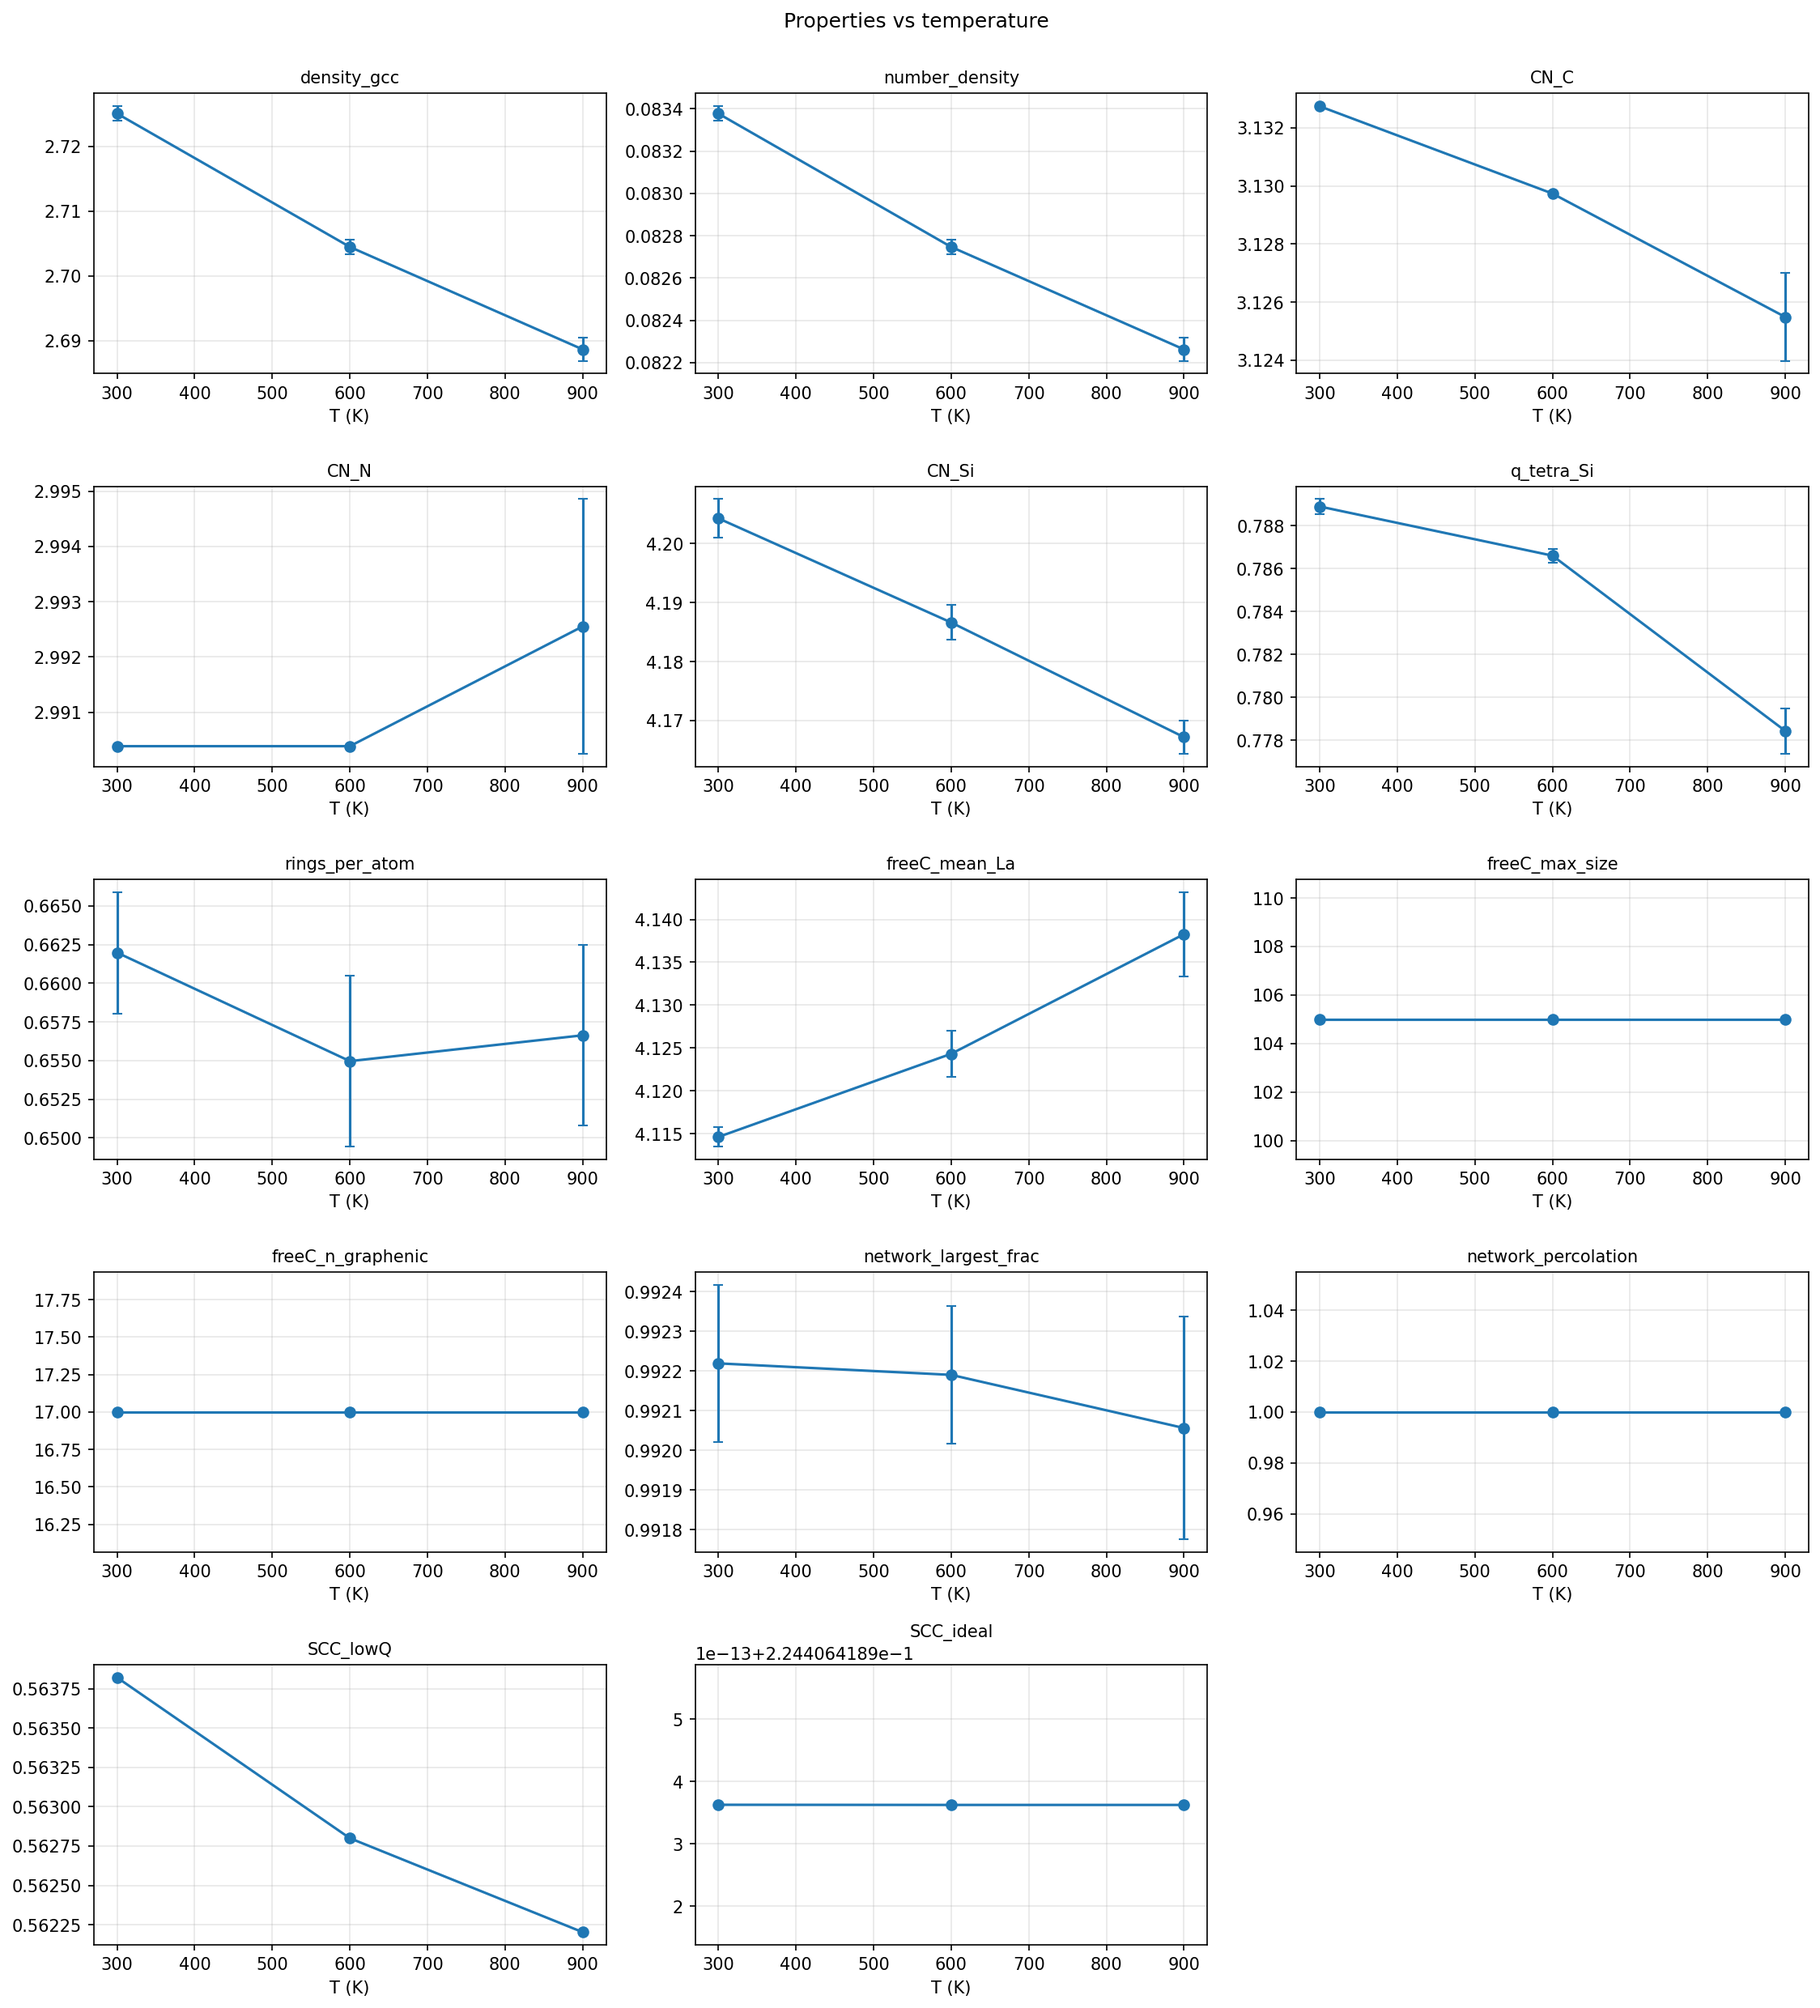
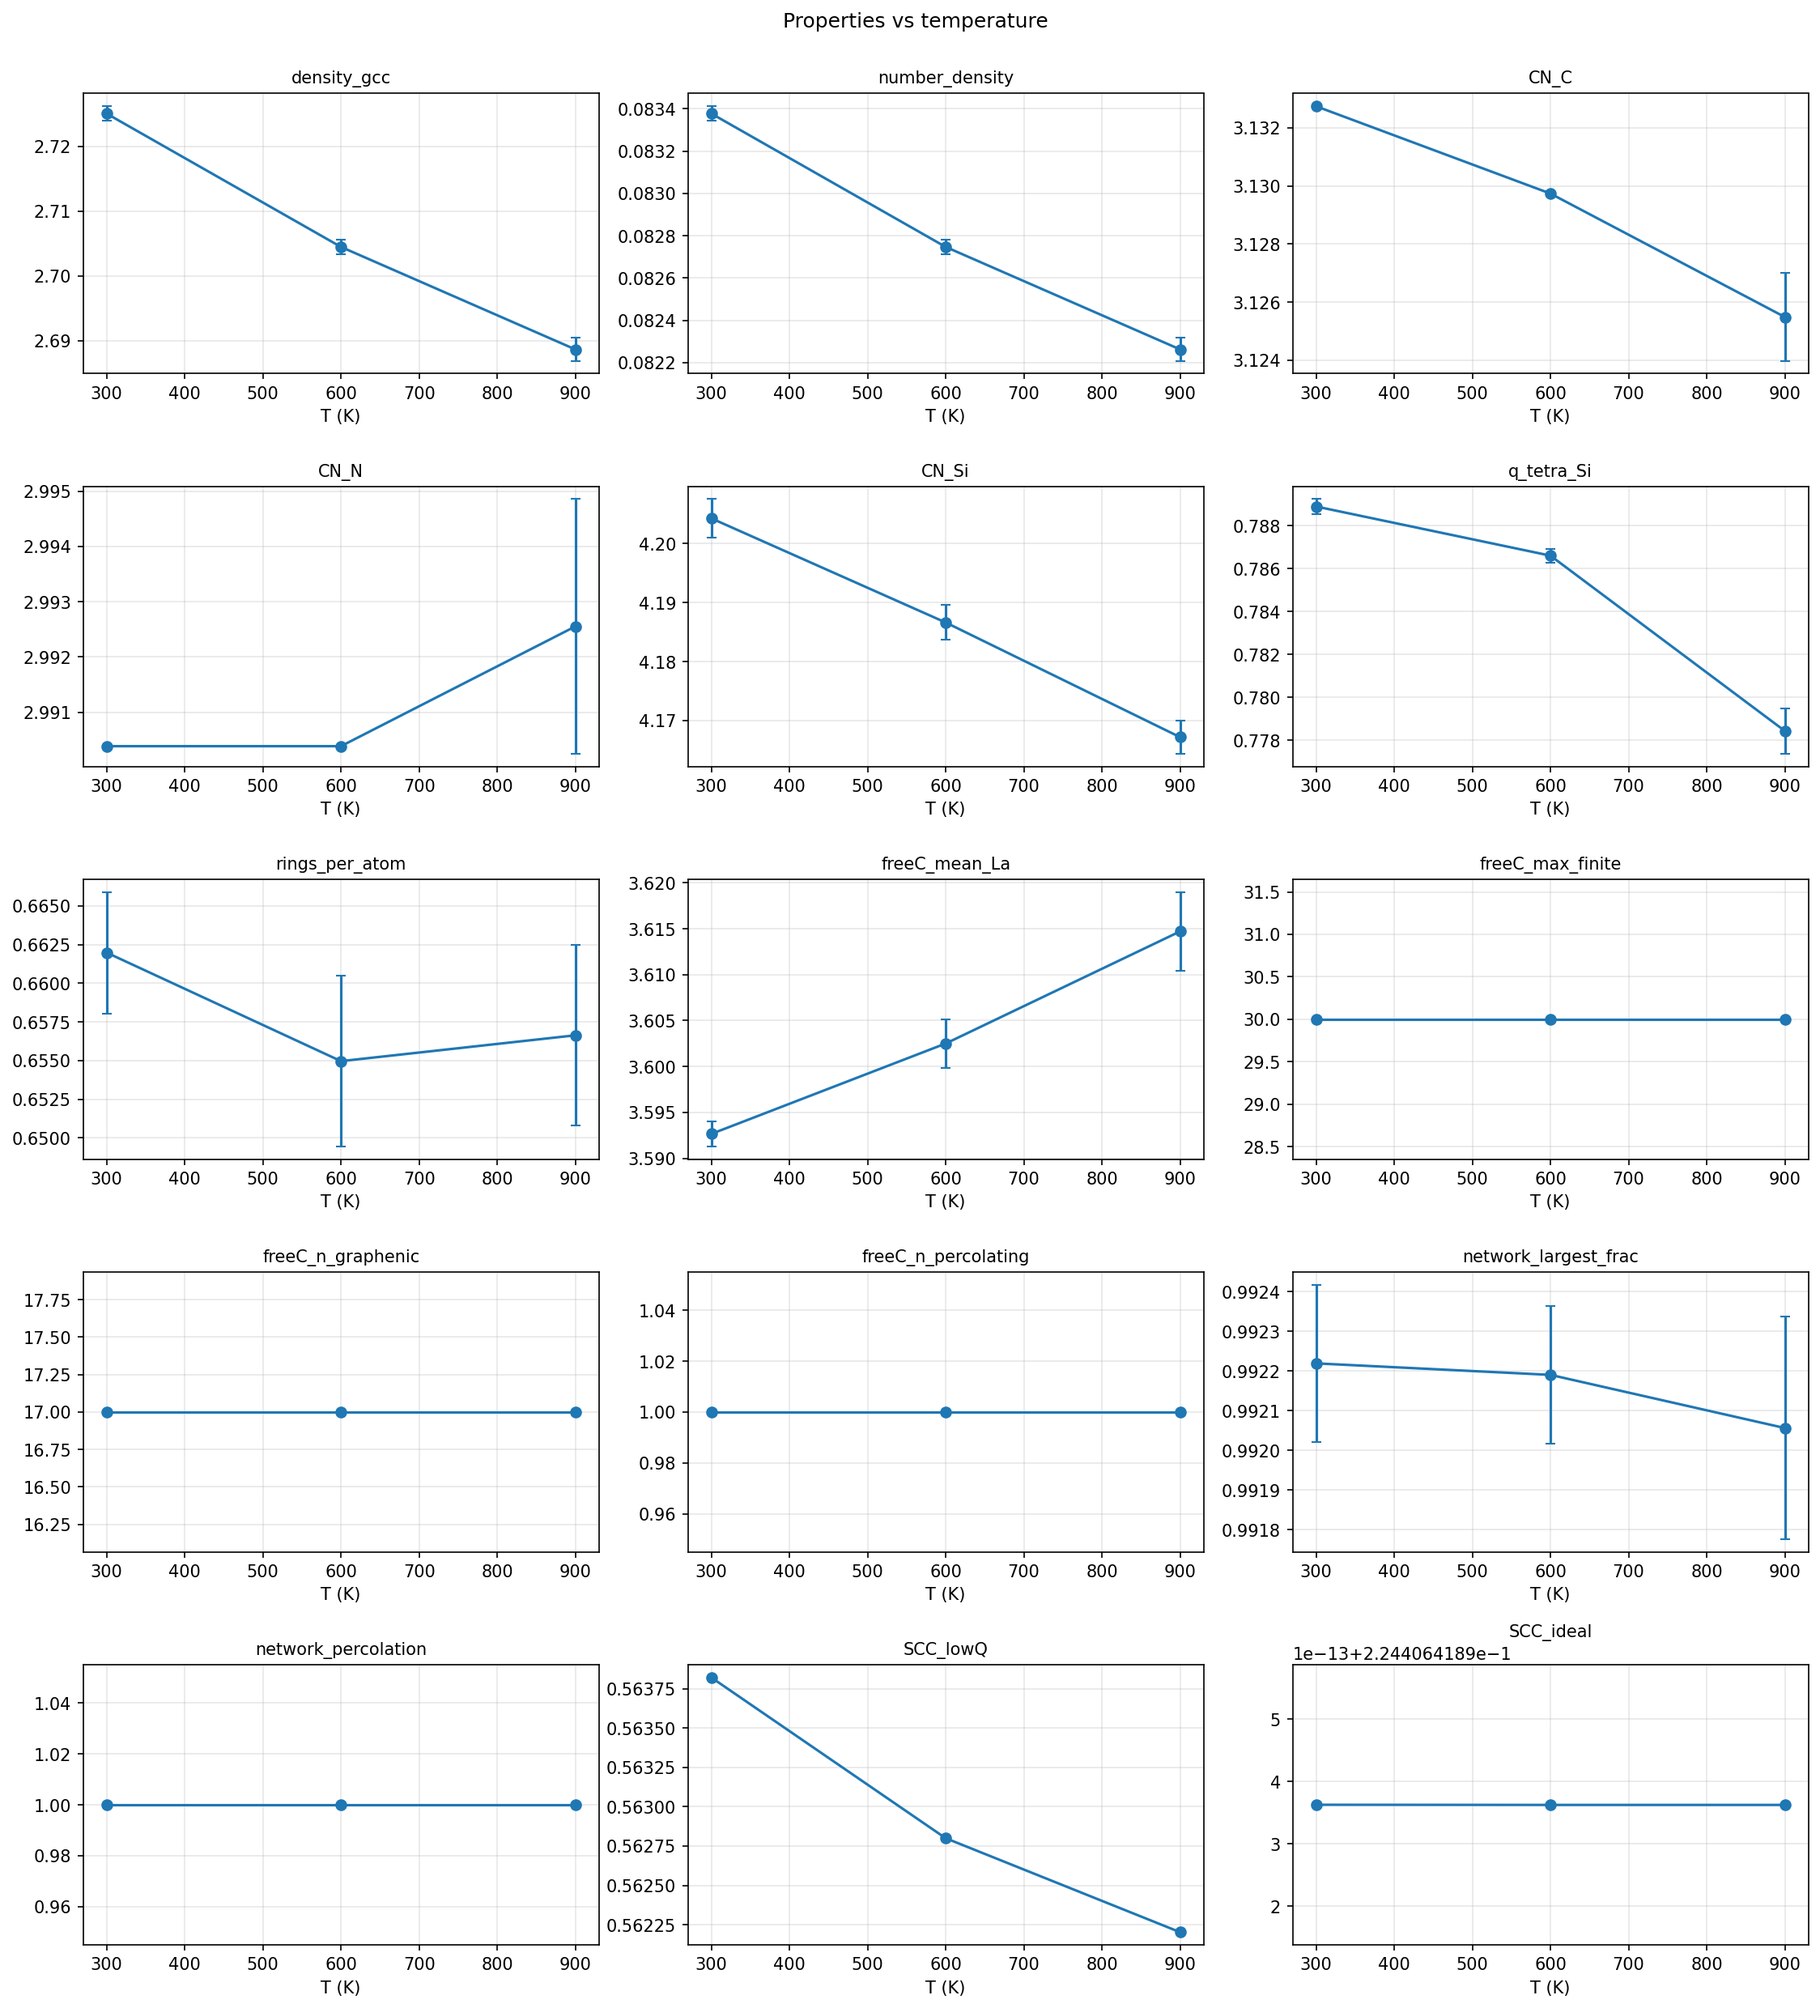
Fix small-box MRO artifact: exclude PBC-percolating clusters from size stats
Diagnostics (scripts/mro_diagnostics.py) on the 997-atom / 22.9 A cell show
the only real size limitation is in free-cluster geometry: the 105-atom
free-C cluster SPANS the box (extent/L=0.87), so under PBC it connects to its
own image and its R_g/L_a are ill-defined — yet it was reported as size=105,
L_a=12.4 and was inflating mean_La.

clusters.py: _cluster_records now flags percolating components (extent>=0.85 L)
and NaNs their geometry; free_clusters excludes them from mean_La, reports
max_finite_size (largest bounded cluster) alongside raw max_size, and adds
n_percolating. analyze.py prints an explicit warning; sweep.py exposes the new
columns. BT S_CC is now sampled at max(0.5, 2pi/L) so we never claim a Q below
the box-accessible minimum.

Other checks pass: g(r) r_max=8 < L/2=11.4 (OK); rings max_size=9 < 13-atom
box-spanning length (OK). Results regenerated; smoke test green.

diff --git a/scripts/mro_diagnostics.py b/scripts/mro_diagnostics.py
@@ -1,0 +1,76 @@
+#!/usr/bin/env python3
+"""Size-sanity diagnostics for MRO analyses on a small cell.
+
+Flags box-size limitations that produce silent artifacts (no exception):
+  * g(r)/structure-factor: r_max must be <= L/2 (minimum-image)
+  * Bhatia-Thornton: smallest accessible Q = 2pi/L  -> 'Q->0' is only an estimate
+  * rings: a ring that needs >~ L/bond atoms to wrap is impossible to detect;
+    conversely max_size must stay below the box-spanning length
+  * clusters: a component that spans the box (percolates) has an ILL-DEFINED
+    R_g / L_a (PBC self-connection) — must be excluded from size metrics
+"""
+from __future__ import annotations
+import sys, warnings
+from pathlib import Path
+import numpy as np
+
+sys.path.insert(0, str(Path(__file__).resolve().parent.parent))
+warnings.filterwarnings("ignore")
+
+from amorph import core, presets
+from amorph.mro._common import build_graph, unwrap_component, gyration
+import networkx as nx
+
+path = sys.argv[1] if len(sys.argv) > 1 else "data/dump_T0300.lammpstrj"
+CM = core.CutoffMatrix(presets.SICN_CUTOFFS, default=0.0)
+traj = core.load(path, type_map=presets.SICN_TYPE_MAP, frames="all")
+fr = traj[-1]                       # last (well-equilibrated) frame
+L = fr.L
+sp = core.species_of([fr])
+print("=" * 70)
+print(f"MRO size diagnostics — {Path(path).name}  (last frame)")
+print("=" * 70)
+print(f"atoms={fr.n_atoms}  box L = {L[0]:.2f} x {L[1]:.2f} x {L[2]:.2f} Å  "
+      f"L/2 = {L.min()/2:.2f} Å")
+
+# --- g(r) / S(Q) reach -------------------------------------------------------
+print("\n[g(r)/S(Q)] minimum-image reach")
+print(f"  max reliable r_max = L/2 = {L.min()/2:.2f} Å   (we use r_max=8.0 → "
+      f"{'OK' if 8.0 <= L.min()/2 else 'TOO LARGE'})")
+qmin = 2 * np.pi / L.max()
+print(f"  smallest accessible Q = 2π/L = {qmin:.3f} Å⁻¹  → S(Q→0) below this is "
+      f"EXTRAPOLATION, not measured (BT S_CC sampled at Q≈0.5 ≥ qmin: "
+      f"{'OK' if 0.5 >= qmin else 'BELOW qmin'})")
+
+# --- rings -------------------------------------------------------------------
+bond_min = min(v for v in presets.SICN_CUTOFFS.values())
+wrap_atoms = int(np.ceil(L.min() / 1.9))   # ~atoms to span box at ~bond length
+print("\n[rings] box-spanning safety")
+print(f"  a PBC-wrapping loop needs ≳ {wrap_atoms} atoms; max_size=9 < {wrap_atoms} "
+      f"→ {'rings up to 9 are genuine (safe)' if 9 < wrap_atoms else 'RISK of wrap rings'}")
+
+# --- free-C clusters: percolation & L_a validity -----------------------------
+print("\n[free-C clusters] percolation check (R_g/L_a invalid if spanning)")
+nodes = np.where(fr.mask("C"))[0]
+G = build_graph(fr, CM, nodes=nodes, pair_filter=lambda a, b: a == "C" and b == "C")
+comps = sorted(nx.connected_components(G), key=len, reverse=True)
+print(f"  {len(nodes)} C atoms, {len(comps)} free-C clusters, "
+      f"sizes top5 = {[len(c) for c in comps[:5]]}")
+n_perc = 0
+print(f"  {'size':>5} {'extent/L (x,y,z)':>22} {'maxfrac':>8} {'L_a(Å)':>8} {'percolates?':>11}")
+for c in comps[:6]:
+    atoms = list(c)
+    if len(atoms) < 2:
+        continue
+    coords = unwrap_component(atoms, G, fr)
+    extent = coords.max(0) - coords.min(0)
+    frac = extent / L
+    perc = bool(frac.max() >= 0.85)
+    n_perc += perc
+    Rg, L_a, aspect, _ = gyration(coords)
+    print(f"  {len(atoms):>5} {str(np.round(frac,2)):>22} {frac.max():>8.2f} "
+          f"{L_a:>8.2f} {str(perc):>11}")
+print(f"  → {n_perc} of the shown clusters PERCOLATE: their L_a/R_g are PBC "
+      f"artifacts and must be excluded from size statistics.")
+
+print("\n" + "=" * 70)

diff --git a/amorph/mro/clusters.py b/amorph/mro/clusters.py
@@ -25,15 +25,30 @@ def _components(G):
     return [c for c in nx.connected_components(G)]
 
 
-def _cluster_records(frame, G):
-    """Per-component geometry records for graph G on this frame."""
+def _cluster_records(frame, G, perc_thresh=0.85):
+    """Per-component geometry records for graph G on this frame.
+
+    A component whose unwrapped extent spans the box (>= ``perc_thresh`` of L on
+    any axis) PERCOLATES: under PBC it connects to its own periodic image, so its
+    R_g / L_a are ill-defined. Such records are flagged ``percolates=True`` and
+    their geometry set to NaN so callers can exclude them from size statistics.
+    """
     recs = []
     for comp in _components(G):
         atoms = list(comp)
+        if len(atoms) < 2:
+            recs.append({"size": len(atoms), "R_g": 0.0, "L_a": 0.0,
+                         "aspect": 1.0, "atoms": atoms, "percolates": False})
+            continue
         coords = unwrap_component(atoms, G, frame)
-        Rg, L_a, aspect, _ = gyration(coords) if len(atoms) > 1 else (0.0, 0.0, 1.0, None)
+        extent = coords.max(axis=0) - coords.min(axis=0)
+        perc = bool(np.max(extent / frame.L) >= perc_thresh)
+        if perc:
+            Rg = L_a = aspect = np.nan
+        else:
+            Rg, L_a, aspect, _ = gyration(coords)
         recs.append({"size": len(atoms), "R_g": Rg, "L_a": L_a,
-                     "aspect": aspect, "atoms": atoms})
+                     "aspect": aspect, "atoms": atoms, "percolates": perc})
     return recs
 
 
@@ -53,6 +68,7 @@ def free_clusters(traj, cutoffs, element, n_blocks=5, min_graphenic=4):
     Returns time-averaged scalars + last-frame per-cluster records.
     """
     pf_nclus, pf_iso, pf_large, pf_meanLa, pf_maxsize = [], [], [], [], []
+    pf_perc, pf_maxfinite = [], []
     last = None
     for fr in traj:
         G = build_graph(fr, cutoffs, nodes=np.where(fr.mask(element))[0],
@@ -60,17 +76,23 @@ def free_clusters(traj, cutoffs, element, n_blocks=5, min_graphenic=4):
         recs = _cluster_records(fr, G)
         sizes = [r["size"] for r in recs]
         large = [r for r in recs if r["size"] >= min_graphenic]
+        # L_a only meaningful for finite (non-percolating) clusters
+        finite_La = [r["L_a"] for r in large if not r["percolates"]]
+        finite_sizes = [r["size"] for r in recs if not r["percolates"]]
         pf_nclus.append(len(recs))
         pf_iso.append(sum(1 for s in sizes if s == 1))
         pf_large.append(len(large))
-        pf_meanLa.append(np.mean([r["L_a"] for r in large]) if large else np.nan)
+        pf_meanLa.append(np.mean(finite_La) if finite_La else np.nan)
         pf_maxsize.append(max(sizes) if sizes else 0)
+        pf_maxfinite.append(max(finite_sizes) if finite_sizes else 0)
+        pf_perc.append(sum(1 for r in recs if r["percolates"]))
         last = recs
     def ba(x): return block_average(x, n_blocks)
     return dict(element=element,
                 n_clusters=ba(pf_nclus), n_isolated=ba(pf_iso),
                 n_graphenic=ba(pf_large), mean_La=ba(pf_meanLa),
-                max_size=ba(pf_maxsize), last_frame=last,
+                max_size=ba(pf_maxsize), max_finite_size=ba(pf_maxfinite),
+                n_percolating=ba(pf_perc), last_frame=last,
                 min_graphenic=min_graphenic)
 
 

diff --git a/amorph/sweep.py b/amorph/sweep.py
@@ -96,9 +96,10 @@ def trajectory_scalars(traj, cutoffs: CutoffMatrix, *, masses=None,
     if free_element is not None and free_element in sp:
         FC = mro_clusters.free_clusters(traj, cutoffs, element=free_element,
                                         n_blocks=n_blocks)
-        cols[f"free{free_element}_mean_La"] = FC["mean_La"]
-        cols[f"free{free_element}_max_size"] = FC["max_size"]
+        cols[f"free{free_element}_mean_La"] = FC["mean_La"]      # finite clusters only
+        cols[f"free{free_element}_max_finite"] = FC["max_finite_size"]
         cols[f"free{free_element}_n_graphenic"] = FC["n_graphenic"]
+        cols[f"free{free_element}_n_percolating"] = FC["n_percolating"]
 
     # network percolation
     if network_group is not None:
@@ -112,7 +113,9 @@ def trajectory_scalars(traj, cutoffs: CutoffMatrix, *, masses=None,
         gA, gB = bt_groups
         try:
             BT = bhatia_thornton.bhatia_thornton(traj, gA, gB, n_blocks=n_blocks)
-            ilow = int(np.argmin(np.abs(BT["q"] - 0.5)))
+            # smallest physically accessible Q is 2π/L; don't claim below it
+            qmin = 2.0 * np.pi / float(np.mean([fr.L.max() for fr in traj]))
+            ilow = int(np.argmin(np.abs(BT["q"] - max(0.5, qmin))))
             cols["SCC_lowQ"] = (float(BT["S_CC"][ilow]), 0.0)
             cols["SCC_ideal"] = (float(BT["S_CC_ideal"]), 0.0)
         except ValueError:

diff --git a/scripts/analyze.py b/scripts/analyze.py
@@ -164,7 +164,14 @@ def analyze_single(path, CM, rep, *, type_map, prod, stride, args):
                                         n_blocks=args.nblocks)
         rep.print(f"[clusters] free-{args.free_element}: n={FC['n_clusters'][0]:.0f}, "
                   f"isolated={FC['n_isolated'][0]:.0f}, graphenic={FC['n_graphenic'][0]:.0f}, "
-                  f"mean L_a={FC['mean_La'][0]:.2f} Å, max size={FC['max_size'][0]:.0f}")
+                  f"mean L_a={FC['mean_La'][0]:.2f} Å (finite clusters only), "
+                  f"max finite size={FC['max_finite_size'][0]:.0f}, "
+                  f"raw max size={FC['max_size'][0]:.0f}")
+        if FC["n_percolating"][0] > 0:
+            rep.print(f"  ⚠ {FC['n_percolating'][0]:.1f} free-{args.free_element} cluster(s) "
+                      f"PERCOLATE the box → their L_a/R_g excluded (PBC artifact; "
+                      f"box too small to bound this phase). Free-{args.free_element} "
+                      f"forms a connected, box-spanning phase.")
     return R  # return g(r) for optional reuse
 
 
